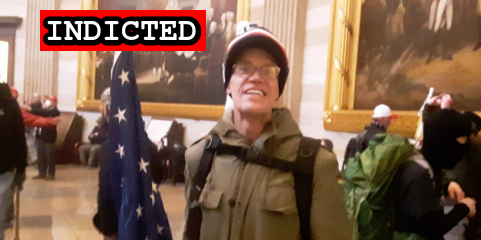
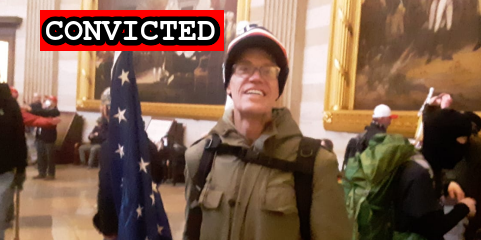
Loftus plea

Changed region(s): [[0.0624, 0.0292, 0.4678, 0.2333]]

diff --git a/docs/_suspects/jack-griffith.md b/docs/_suspects/jack-griffith.md
@@ -13,7 +13,7 @@ sentenced:
 dismissed:
 deceased:
 plea_hearing: 2021-07-29
-sentencing: 2021-10-15
+sentencing: 2021-10-22
 age: 25
 occupation:
 affiliations:
@@ -34,12 +34,13 @@ published: true
 caseNumber: 1:21-cr-204
 videos:
 charges:
-- code: 18 USC § 5104(e)(2)(G)
-  title: Parading, Demonstrating or Picketing in a Capitol Building
-  url: https://www.law.cornell.edu/uscode/text/40/5104
-  felony: false
+  - code: 18 USC § 5104(e)(2)(G)
+    title: Parading, Demonstrating or Picketing in a Capitol Building
+    url: https://www.law.cornell.edu/uscode/text/40/5104
+    felony: false
 sentence:
 ---
+
 - [News Report](https://www.newschannel5.com/news/gallatin-man-arrested-in-connection-with-capitol-riot)
 - [Self Incrimination](https://twitter.com/ndelriego/status/1348468023888392193?s=20)
 - [Statement of Facts](https://www.justice.gov/usao-dc/case-multi-defendant/file/1419011/download)

diff --git a/docs/_suspects/kevin-loftus.md b/docs/_suspects/kevin-loftus.md
@@ -4,16 +4,16 @@ lastName: Loftus
 hashtag: KevinLoftus
 aka:
 residence: Wisconsin
-status: Indicted
+status: Convicted
 date: 2021-01-12
 charged: 2021-01-12
 indicted: 2021-02-04
-convicted:
+convicted: 2021-10-19
 sentenced:
 dismissed:
 deceased:
 plea_hearing: 2021-10-19
-sentencing:
+sentencing: 2022-01-31
 age: 52
 occupation:
 affiliations:
@@ -34,6 +34,10 @@ published: true
 caseNumber: 1:21-cr-81
 videos:
 charges:
+- code: 18 USC § 5104(e)(2)(G)
+  title: Parading, demonstrating or picketing in a Capitol building
+  url: https://www.law.cornell.edu/uscode/text/40/5104
+  felony: false
 sentence:
 ---
 - [News Report](https://wqow.com/2021/01/12/what-we-know-about-kevin-loftus-man-charged-for-connection-to-capitol-riot/)
